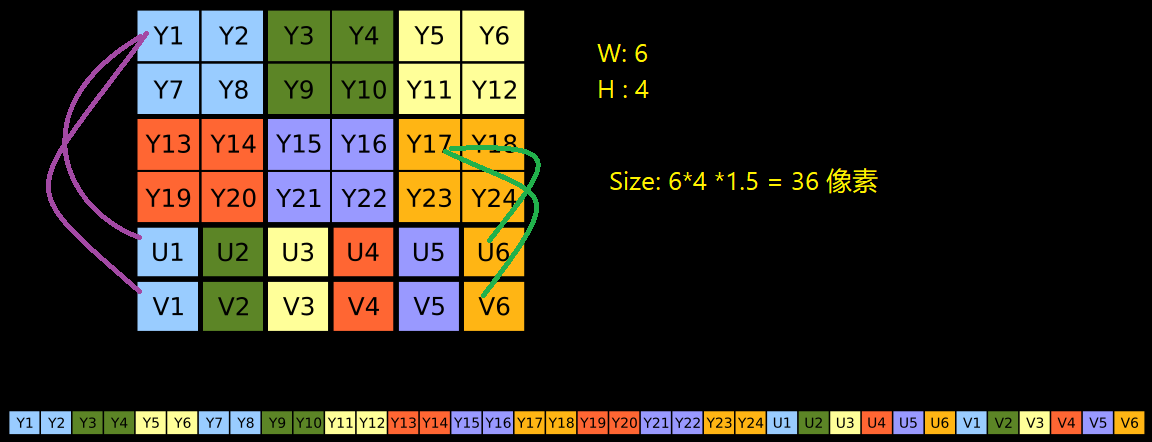
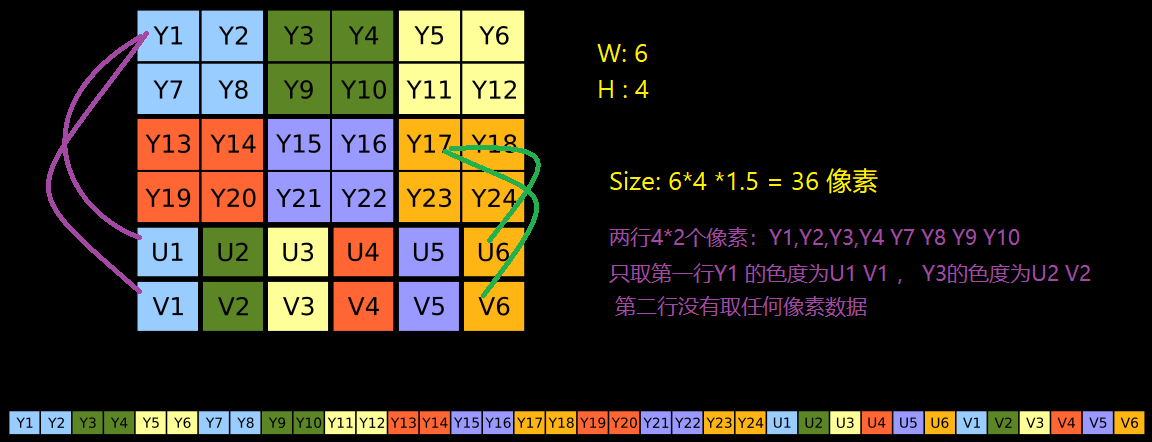
update YUV

Changed region(s): [[0.5312, 0.5882, 0.9375, 0.6471], [0.5312, 0.5, 0.9062, 0.5588], [0.5312, 0.6765, 0.75, 0.7353]]

diff --git a/jekyll/2018-03-21-YUV.html b/jekyll/2018-03-21-YUV.html
@@ -129,7 +129,7 @@
                             </a>
                             
                                 
-                                    <ul><li><a href="#1简介" onclick="mobilePageScrollToAnchor(this)" >1.简介</a></li><li><a href="#2采样方式444-422-420的区别" onclick="mobilePageScrollToAnchor(this)" >2.采样方式(444, 422, 420的区别)</a><ul><li><a href="#21-采样方式" onclick="mobilePageScrollToAnchor(this)" >2.1 采样方式</a></li><li><a href="#22-占用字节数" onclick="mobilePageScrollToAnchor(this)" >2.2 占用字节数</a></li></ul></li><li><a href="#3-存储方式" onclick="mobilePageScrollToAnchor(this)" >3 存储方式</a><ul><li><a href="#31-分类" onclick="mobilePageScrollToAnchor(this)" >3.1 分类</a></li><li><a href="#32-444" onclick="mobilePageScrollToAnchor(this)" >3.2 444</a></li><li><a href="#33-422" onclick="mobilePageScrollToAnchor(this)" >3.3 422</a></li><li><a href="#34-420" onclick="mobilePageScrollToAnchor(this)" >3.4 420</a></li></ul></li></ul>
+                                    <ul><li><a href="#1简介" onclick="mobilePageScrollToAnchor(this)" >1.简介</a></li><li><a href="#2采样方式444-422-420的区别" onclick="mobilePageScrollToAnchor(this)" >2.采样方式(444, 422, 420的区别)</a><ul><li><a href="#21-采样方式" onclick="mobilePageScrollToAnchor(this)" >2.1 采样方式</a></li><li><a href="#22-占用字节数" onclick="mobilePageScrollToAnchor(this)" >2.2 占用字节数</a></li></ul></li><li><a href="#3-存储方式planar-semi-planar和packed的区别" onclick="mobilePageScrollToAnchor(this)" >3. 存储方式(Planar, Semi-Planar和Packed的区别)</a><ul><li><a href="#31-分类" onclick="mobilePageScrollToAnchor(this)" >3.1 分类</a></li><li><a href="#32-444" onclick="mobilePageScrollToAnchor(this)" >3.2 444</a></li><li><a href="#33-422" onclick="mobilePageScrollToAnchor(this)" >3.3 422</a></li><li><a href="#34-420" onclick="mobilePageScrollToAnchor(this)" >3.4 420</a></li></ul></li><li><a href="#4-借助ffmpeg格式转换" onclick="mobilePageScrollToAnchor(this)" >4. 借助ffmpeg格式转换</a></li><li><a href="#5-借助ffplay显示yuv" onclick="mobilePageScrollToAnchor(this)" >5. 借助ffplay显示YUV</a></li></ul>
 
                                 
                             
@@ -225,15 +225,16 @@
 
 <p>YUV数据由Y、U、V三个分量组成，现在通常说的YUV指的是YCbCr。</p>
 
-<p>Y：表示亮度（Luminance、Luma），占8bit（1字节）</p>
+<p>Y：表示<strong>亮度</strong>（Luminance、Luma），占8bit（1字节）</p>
 
-<p>Cb、Cr：表示色度（Chrominance、Chroma）</p>
+<p>Cb、Cr：表示<strong>色度</strong>（Chrominance、Chroma）</p>
 
 <p>Cb（U）：蓝色色度分量，占8bit（1字节）</p>
 
 <p>Cr（V）：红色色度分量，占8bit（1字节）</p>
 
 <h1 id="2采样方式444-422-420的区别">2.采样方式(444, 422, 420的区别)</h1>
+<p>把Y、U、V数据转变为R、G、B时用到</p>
 
 <h2 id="21-采样方式">2.1 采样方式</h2>
 <p>采样方式通常用A:B:C的形式来表示，比如4:4:4、4:2:2、4:2:0等</p>
@@ -275,9 +276,9 @@
 8个像素 ： 8个Y + 2个U +2个V  = 12字节 
 每个像素：12字节/8 = 1.5个字节 12bit</p>
 
-<h1 id="3-存储方式">3 存储方式</h1>
+<h1 id="3-存储方式planar-semi-planar和packed的区别">3. 存储方式(Planar, Semi-Planar和Packed的区别)</h1>
 
-<p>存储格式，表示的是Y、U、V数据是如何排列和存储的。</p>
+<p>存储格式，表示的是Y、U、V数据是如何排列和存储的。 读取或写入Y、U、V数据时用到.</p>
 
 <h2 id="31-分类">3.1 分类</h2>
 <p>YUV的存储格式可以分为3大类：</p>
@@ -321,15 +322,15 @@
 
 <p><img src="/blog/assets/YUV/422.png" alt="" width="540px" height="150px" /></p>
 
-<p>Planar I422 YV16 区别：VU 次序</p>
+<p><strong>Planar I422 YV16 区别：VU 次序</strong></p>
 
 <p><img src="/blog/assets/YUV/YV16.png" alt="" width="540px" height="200px" /></p>
 
-<p>Semi-Planar NV16 NV61 区别：VU 次序</p>
+<p><strong>Semi-Planar NV16 NV61 区别：VU 次序</strong></p>
 
 <p><img src="/blog/assets/YUV/NV16.png" alt="" width="540px" height="200px" /></p>
 
-<p>Packed UYVY YUYV YVYU 区别：VU 次序</p>
+<p><strong>Packed UYVY YUYV YVYU 区别：VU 次序</strong></p>
 
 <p><img src="/blog/assets/YUV/YUYV.png" alt="" width="540px" height="200px" /></p>
 
@@ -337,13 +338,58 @@
 
 <p><img src="/blog/assets/YUV/420.png" alt="" width="540px" height="150px" /></p>
 
-<p>Planar I420</p>
+<p><strong>Planar I420 YV12</strong></p>
 
-<p><img src="/blog/assets/YUV/I420.png" alt="" width="300px" height="200px" /></p>
+<p><img src="/blog/assets/YUV/I420.png" alt="" width="540px" height="200px" /></p>
 
-<p>像素示意图</p>
+<p><strong>采样方式420 I420，像素示意图</strong></p>
 
 <p><img src="/blog/assets/YUV/I420_pixel.png" alt="" width="540px" height="200px" /></p>
+
+<p><strong>Semi-Planar NV12 NV21</strong></p>
+
+<p><img src="/blog/assets/YUV/NV12.png" alt="" width="540px" height="200px" /></p>
+
+<p><strong>采样方式420，各种存储方式， 像素示意图</strong></p>
+
+<p><img src="/blog/assets/YUV/420_pixel.png" alt="" width="540px" height="350px" /></p>
+
+<h1 id="4-借助ffmpeg格式转换">4. 借助ffmpeg格式转换</h1>
+
+<ol>
+  <li>PNG -&gt; YUV
+    <div class="language-sh highlighter-rouge"><div class="highlight"><pre class="highlight"><code> ffmpeg <span class="nt">-i</span> <span class="k">in</span>.png <span class="nt">-s</span> 512x512 <span class="nt">-pix_fmt</span> yuv420p out.yuv
+</code></pre></div>    </div>
+  </li>
+  <li>YUV -&gt; PNG
+    <div class="language-sh highlighter-rouge"><div class="highlight"><pre class="highlight"><code> ffmpeg <span class="nt">-s</span> 512x512 <span class="nt">-pix_fmt</span> yuv420p <span class="nt">-i</span> <span class="k">in</span>.yuv out.jpg
+</code></pre></div>    </div>
+  </li>
+</ol>
+
+<p><strong>YUV 文件只是存储数据的文件，没有大小信息，所以转换时一定要给出它的尺寸</strong></p>
+
+<p><strong>PNG 文件含有尺寸信息，所以转YUV时可以不指定大小，默认原大小</strong></p>
+
+<h1 id="5-借助ffplay显示yuv">5. 借助ffplay显示YUV</h1>
+
+<p>可以通过ffplay显示YUV数据。</p>
+
+<ul>
+  <li>
+    <p>YUV中直接存储的是所有像素的颜色信息（可以理解为是图像的一种原始数据）</p>
+  </li>
+  <li>
+    <p>必须得设置YUV的尺寸（-s）、像素格式（-pix_fmt）才能正常显示</p>
+  </li>
+</ul>
+
+<div class="language-shell highlighter-rouge"><div class="highlight"><pre class="highlight"><code>ffplay <span class="nt">-s</span> 512x512 <span class="nt">-pix_fmt</span> yuv420p <span class="k">in</span>.yuv
+<span class="c"># 在ffplay中</span>
+<span class="c"># -s已经过期，建议改为：-video_size</span>
+<span class="c"># -pix_fmt已经过期，建议改为：-pixel_format</span>
+ffplay <span class="nt">-video_size</span> 512x512 <span class="nt">-pixel_format</span> yuv420p <span class="k">in</span>.yuv
+</code></pre></div></div>
 </section>
             </div><div class="search-results">
     <div class="has-results">

diff --git a/jekyll/2021-04-27-Weston.html b/jekyll/2021-04-27-Weston.html
@@ -162,7 +162,7 @@
                             </a>
                             
                                 
-                                    <ul><li><a href="#一-启动weston" onclick="mobilePageScrollToAnchor(this)" >一. 启动Weston</a><ul><li><a href="#11-实现内容" onclick="mobilePageScrollToAnchor(this)" >1.1 实现内容</a></li><li><a href="#12-伪代码" onclick="mobilePageScrollToAnchor(this)" >1.2 伪代码</a></li><li><a href="#13-backend-renderer-shell的作用" onclick="mobilePageScrollToAnchor(this)" >1.3 backend, renderer, shell的作用</a></li></ul></li><li><a href="#二-client-动作" onclick="mobilePageScrollToAnchor(this)" >二. Client 动作</a><ul><li><a href="#21-client的接入和global资源代理的创建" onclick="mobilePageScrollToAnchor(this)" >2.1 Client的接入和global资源代理的创建</a><ul><li><a href="#流程" onclick="mobilePageScrollToAnchor(this)" >流程</a></li><li><a href="#伪代码" onclick="mobilePageScrollToAnchor(this)" >伪代码</a></li></ul></li><li><a href="#22-内部weston---client-通讯机制" onclick="mobilePageScrollToAnchor(this)" >2.2 内部weston - client 通讯机制</a><ul><li><a href="#rpc-图示" onclick="mobilePageScrollToAnchor(this)" >RPC 图示</a></li><li><a href="#object-rpc-机制" onclick="mobilePageScrollToAnchor(this)" >object RPC 机制</a></li></ul></li></ul></li><li><a href="#23-client-创建各类资源proxy" onclick="mobilePageScrollToAnchor(this)" >2.3 Client 创建各类资源proxy</a><ul><li><a href="#主要资源proxy" onclick="mobilePageScrollToAnchor(this)" >主要资源proxy</a><ul><li><a href="#24-client-渲染" onclick="mobilePageScrollToAnchor(this)" >2.4 Client 渲染</a><ul><li><a href="#伪代码-1" onclick="mobilePageScrollToAnchor(this)" >伪代码</a></li></ul></li><li><a href="#25-client-提交渲染好的surface" onclick="mobilePageScrollToAnchor(this)" >2.5. Client 提交渲染好的surface</a></li></ul></li><li><a href="#三-weston-合成各个app的surface并呈现" onclick="mobilePageScrollToAnchor(this)" >三. Weston 合成各个App的surface并呈现</a><ul><li><a href="#流程-1" onclick="mobilePageScrollToAnchor(this)" >流程</a></li></ul></li></ul></li></ul></li></ul></li></ul>
+                                    <ul><li><a href="#一-启动weston" onclick="mobilePageScrollToAnchor(this)" >一. 启动Weston</a><ul><li><a href="#11-实现内容" onclick="mobilePageScrollToAnchor(this)" >1.1 实现内容</a></li><li><a href="#12-伪代码" onclick="mobilePageScrollToAnchor(this)" >1.2 伪代码</a></li><li><a href="#13-backend-renderer-shell的作用" onclick="mobilePageScrollToAnchor(this)" >1.3 backend, renderer, shell的作用</a></li></ul></li><li><a href="#二-client-动作" onclick="mobilePageScrollToAnchor(this)" >二. Client 动作</a><ul><li><a href="#21-client的接入和global资源代理的创建" onclick="mobilePageScrollToAnchor(this)" >2.1 Client的接入和global资源代理的创建</a><ul><li><a href="#流程" onclick="mobilePageScrollToAnchor(this)" >流程</a></li><li><a href="#伪代码" onclick="mobilePageScrollToAnchor(this)" >伪代码</a></li></ul></li><li><a href="#22-内部weston---client-通讯机制" onclick="mobilePageScrollToAnchor(this)" >2.2 内部weston - client 通讯机制</a><ul><li><a href="#rpc-图示" onclick="mobilePageScrollToAnchor(this)" >RPC 图示</a></li><li><a href="#object-rpc-机制" onclick="mobilePageScrollToAnchor(this)" >object RPC 机制</a></li></ul></li><li><a href="#23-client-创建各类资源proxy" onclick="mobilePageScrollToAnchor(this)" >2.3 Client 创建各类资源proxy</a><ul><li><a href="#主要资源proxy" onclick="mobilePageScrollToAnchor(this)" >主要资源proxy</a></li></ul></li><li><a href="#24-client-渲染" onclick="mobilePageScrollToAnchor(this)" >2.4 Client 渲染</a><ul><li><a href="#伪代码-1" onclick="mobilePageScrollToAnchor(this)" >伪代码</a></li></ul></li><li><a href="#25-client-提交渲染好的surface" onclick="mobilePageScrollToAnchor(this)" >2.5. Client 提交渲染好的surface</a><ul><li><a href="#提交函数" onclick="mobilePageScrollToAnchor(this)" >提交函数</a></li></ul></li></ul></li></ul></li><li><a href="#三-weston-合成各个app的surface并呈现" onclick="mobilePageScrollToAnchor(this)" >三. Weston 合成各个App的surface并呈现</a><ul><li><a href="#流程-1" onclick="mobilePageScrollToAnchor(this)" >流程</a></li></ul></li></ul>
 
                                 
                             
@@ -398,9 +398,9 @@ renderer接口供backend内部使用，外部通过调用backend接口触发</p>
 
 <p><img src="/blog/assets/wayland/20141019204223671.png" alt="image" /></p>
 
-<h2 id="23-client-创建各类资源proxy">2.3 Client 创建各类资源proxy</h2>
+<h3 id="23-client-创建各类资源proxy">2.3 Client 创建各类资源proxy</h3>
 
-<h3 id="主要资源proxy">主要资源proxy</h3>
+<h4 id="主要资源proxy">主要资源proxy</h4>
 
 <div class="language-c highlighter-rouge"><div class="highlight"><pre class="highlight"><code><span class="c1">// wl_surface</span>
 <span class="n">wl_surface</span> <span class="o">=</span> <span class="n">wl_compositor_create_surface</span><span class="p">(</span><span class="n">compositor</span><span class="p">)</span>
@@ -436,9 +436,9 @@ renderer接口供backend内部使用，外部通过调用backend接口触发</p>
 
 </code></pre></div></div>
 
-<h4 id="24-client-渲染">2.4 Client 渲染</h4>
+<h3 id="24-client-渲染">2.4 Client 渲染</h3>
 
-<h5 id="伪代码-1">伪代码</h5>
+<h4 id="伪代码-1">伪代码</h4>
 <p>simple-egl.c</p>
 <div class="language-c highlighter-rouge"><div class="highlight"><pre class="highlight"><code><span class="cm">/*-------------------- egl 初始化工作 ------------------------*/</span>
 
@@ -488,14 +488,14 @@ renderer接口供backend内部使用，外部通过调用backend接口触发</p>
 <span class="p">...</span>
 </code></pre></div></div>
 
-<h4 id="25-client-提交渲染好的surface">2.5. Client 提交渲染好的surface</h4>
+<h3 id="25-client-提交渲染好的surface">2.5. Client 提交渲染好的surface</h3>
 
-<h6 id="提交函数">提交函数</h6>
+<h4 id="提交函数">提交函数</h4>
 <p>wl_surface_commit( )</p>
 
-<h3 id="三-weston-合成各个app的surface并呈现">三. Weston 合成各个App的surface并呈现</h3>
+<h1 id="三-weston-合成各个app的surface并呈现">三. Weston 合成各个App的surface并呈现</h1>
 
-<h5 id="流程-1">流程</h5>
+<h2 id="流程-1">流程</h2>
 <ol>
   <li>compositor遍历每个weston_output 发起repaint。weston_output_schedule_repaint( )</li>
   <li>通知weston_output具体实现–backend_output, 开始repaint的前期准备工作, 对应函数start_repaint_loop( )， drm实现暂无内容</li>
